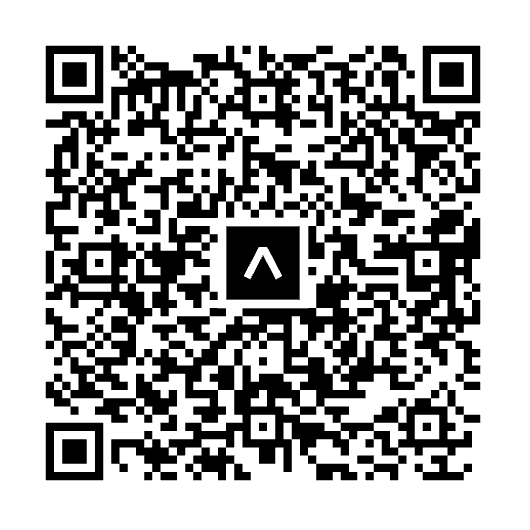
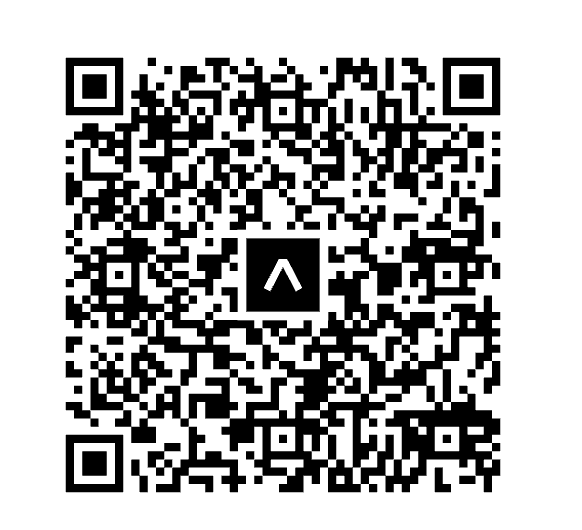
docs: README.mdにアプリコンセプトを追加、QRコードを最新版に更新

diff --git a/services/userService.ts b/services/userService.ts
@@ -43,7 +43,7 @@ export async function saveUserNickname(nickname: string): Promise<void> {
 				nickname: nickname.trim(),
 				updatedAt: new Date(),
 			},
-			{ merge: true },
+			{ merge: true }
 		);
 	} catch (error) {
 		console.error("Error saving user nickname:", error);
@@ -54,7 +54,9 @@ export async function saveUserNickname(nickname: string): Promise<void> {
 /**
  * 指定されたユーザーIDのニックネームを取得
  */
-export async function getUserNicknameById(userId: string): Promise<string | null> {
+export async function getUserNicknameById(
+	userId: string
+): Promise<string | null> {
 	try {
 		const userRef = doc(db, "users", userId);
 		const userDoc = await getDoc(userRef);
@@ -113,7 +115,7 @@ export async function setNotificationEnabled(enabled: boolean): Promise<void> {
 				notificationEnabled: enabled,
 				updatedAt: new Date(),
 			},
-			{ merge: true },
+			{ merge: true }
 		);
 		console.log(`✅ 通知設定を更新しました: ${enabled ? "ON" : "OFF"}`);
 	} catch (error) {

diff --git a/README.md b/README.md
@@ -1,4 +1,10 @@
-# React Native Todo App
+# Todo App
+
+**日常にフィットするTODO管理アプリ**  
+あなたのやる気をAIがサポート  
+便利なリマインダー機能付き
+
+---
 
 React Native + Expo で構築したTodoアプリ。Firebase認証とFirestoreでデータ管理。
 
